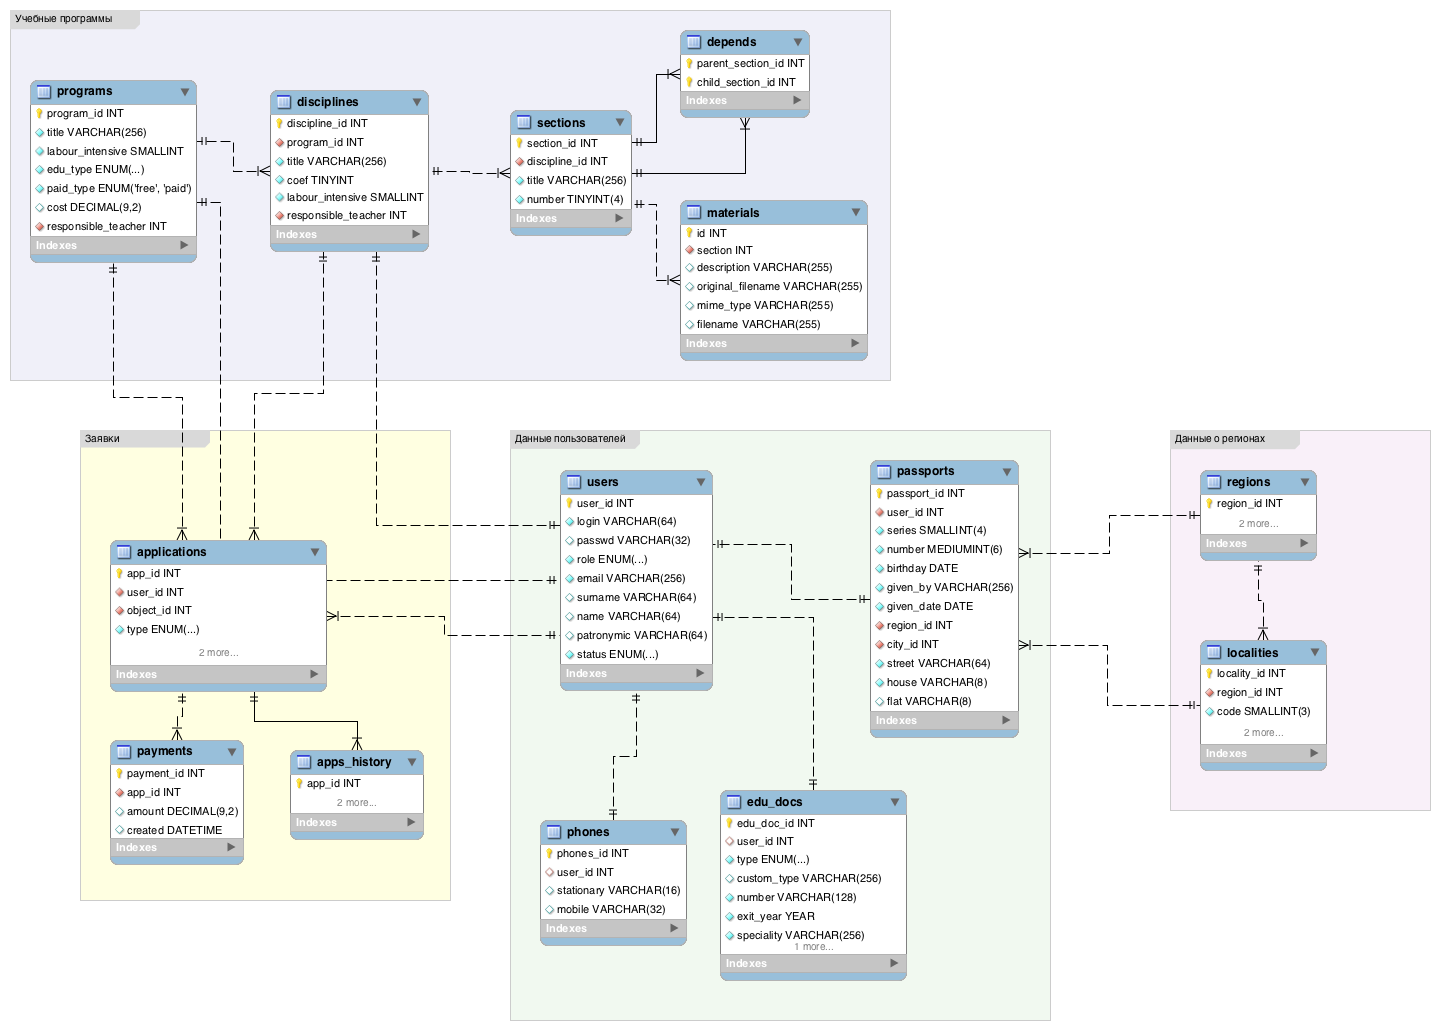
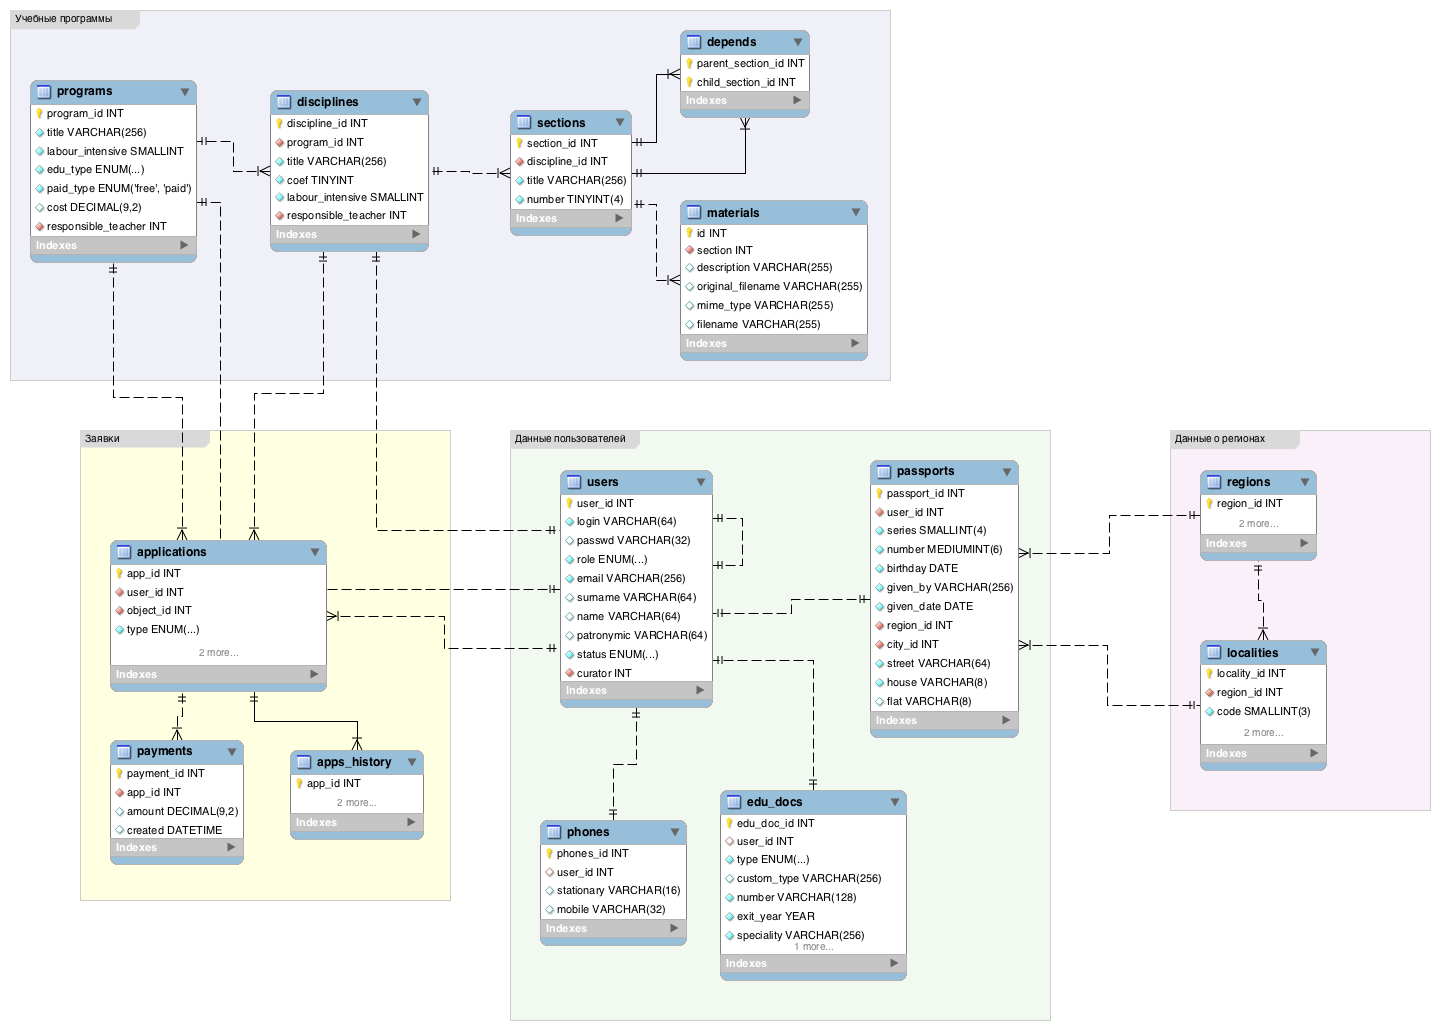
[+] назначение кураторов для студентов
git-svn-id: http://subversion.assembla.com/svn/remote-edu/trunk@156 8be755f0-7b69-014b-b4a2-75d5e90fc6ab

Changed region(s): [[0.375, 0.6214, 0.5, 0.7146]]

diff --git a/private/app/Model/User.php b/private/app/Model/User.php
@@ -585,6 +585,49 @@
 			
 			return $retval;
 		}
+		
+		/**
+		* Возвращает полный список студентов в совокупности с их кураторами.
+		*
+		* @return array
+		*/
+		public function getStudentsList() {
+			$sql = 'SELECT `user_id`,`name`,`surname`,`patronymic`,`curator`
+				FROM `users` WHERE `role`=\'student\'';
+			$stmt = $this->prepare($sql);
+			$stmt->execute(array());
+			$students = $stmt->fetchAll(Db_Pdo::FETCH_ASSOC);
+			$retval = array();
+			
+			if (count($students)) {
+				foreach ($students as $i => $student) {
+					$retval[$student['user_id']] = array(
+						'name' => $student['name'],
+						'surname' => $student['surname'],
+						'patronymic' => $student['patronymic'],
+						'curator' => $student['curator'],
+					);
+				}
+			}
+
+			return $retval;
+		}
+		
+		/**
+		* Назначает куратора студенту.
+		*
+		* @param  $studentId int Идентификатор студента
+		* @param  $teacherId int Идентификатор преподавателя
+		* @return void
+		*/
+		public function setUserCurator($studentId, $teacherId) {
+			$sql = 'UPDATE `users` SET `curator`=:teacher_id WHERE `role`=\'student\' AND `user_id`=:student_id';
+			$params = array(
+				':teacher_id' => $teacherId,
+				':student_id' => $studentId,
+			);
+			$this->prepare($sql)->execute($params);			
+		}
     }
 
 ?>

diff --git a/private/app/Controller/Assignment.php b/private/app/Controller/Assignment.php
@@ -1,16 +1,33 @@
 <?php
 	class Controller_Assignment extends Mvc_Controller_Abstract {
 		public function action_student_curator() {
-			$this->render('assignment/student_curator');
+			$users = Model_User::create();
+			$request = $this->getRequest ();
+			$method = 'post';
+
+			if (empty($request->$method)) {
+				$this->set('teachers', $users->getTeachersList());
+				$this->set('students', $users->getStudentsList());				
+				$this->render('assignment/student_curator');
+			}
+			else {
+				$requestData = $request->$method;
+				
+				if (count($requestData)) {
+					foreach ($requestData as $i => $value) {
+						$users->setUserCurator($i, $value);
+					}
+				}
+				$this->flash('Кураторы успешно назначены', '/assignment/students_curator', 3);
+			}			
 		}
 		
 		public function action_responsible_teacher() {
 			$programs = Model_Education_Programs::create();
 			$request = $this->getRequest ();
 			$method = 'post';
-			if (empty ($request->$method)) {
-				$users = Model_User::create();
-				
+			if (empty($request->$method)) {
+				$users = Model_User::create();				
 				$this->set('teachers', $users->getTeachersList());
 				$this->set('disciplines', $programs->getDisciplinesResponsibleTeachersList());
 				$this->set('courses', $programs->getCoursesResponsibleTeachersList());
